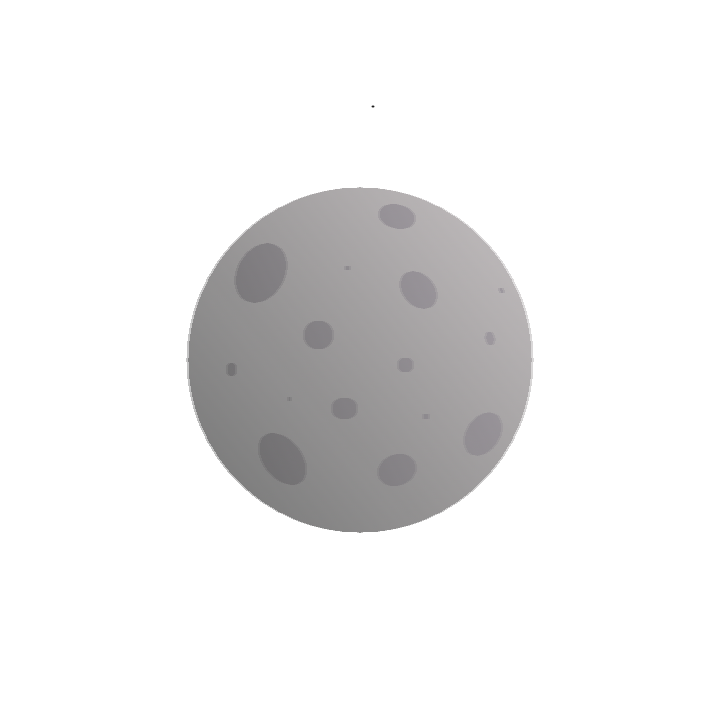
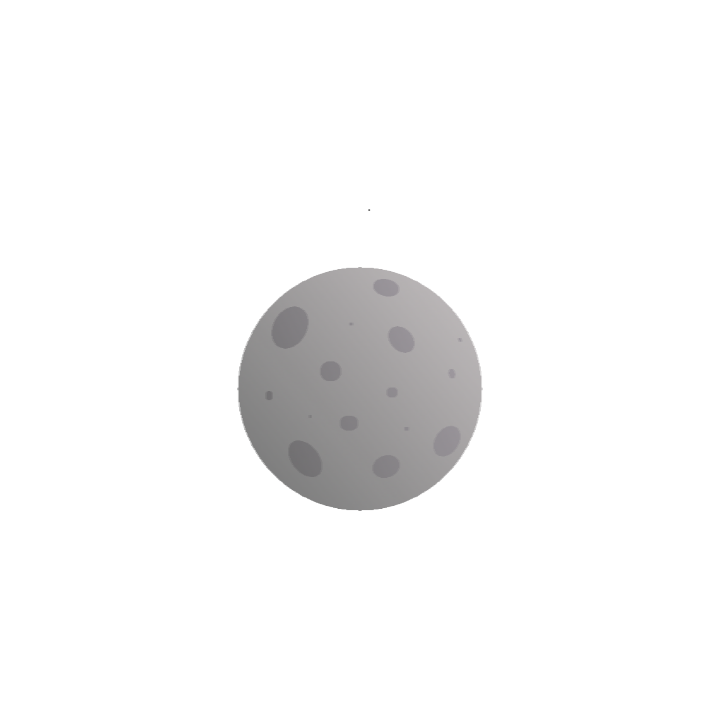
Changed main page slightly to view images

Changed region(s): [[0.2444, 0.2444, 0.7639, 0.7639], [0.4278, 0.4278, 0.4583, 0.4889], [0.55, 0.4889, 0.5806, 0.5194]]

diff --git a/SkyHoffert_files/SkyHoffert.html b/SkyHoffert_files/SkyHoffert.html
@@ -13,6 +13,7 @@
 <div id="container-fluid" role="main" >
 
 	<header class="siteHeader" style="position: fixed" >
+	<!--
 		<nav class="navbar navbar-default" >
 			<div class="container-fluid">
 				<div class="navbar-header">
@@ -31,6 +32,7 @@
 						<li class="active"><a href="AboutMe.html">About Me<span class="sr-only">(current)</span></a></li>
 						<li class="active"><a href="Blog.html">Blog<span class="sr-only">(current)</span></a></li>
 						<!-- add more links here -->
+						<!--
 						
 						<li class="dropdown">
 							<a class="dropdown-toggle" data-toggle="dropdown" role="button" aria-haspopup="true" aria-expanded="false">Travel<span class="caret"></span></a>
@@ -55,7 +57,8 @@
 				</div>
 			</div>
 		</nav>
-		
+	
+	-->
 	</header>
 	
 	<div class="container" style="padding-top: 64px" >
@@ -71,9 +74,16 @@
 		</div>
 		<!-- end temp section -->
 		
+		<div class="container">
+			<center>
+				<img src="images/MercurySimple2.png" />
+				<img src="images/VenusSimple.png" />
+				<img src="images/EarthSimple.png" />
+			</center>
+		</div>
+		
 		<div class="container" >
 			<h3>Contact Information</h3>
-			<strong>Email: </strong><p> skyhoffert@gmail.com </p>
 			<strong>Email: </strong><p> skyhoffert@gmail.com </p>
 		</div>
 		
